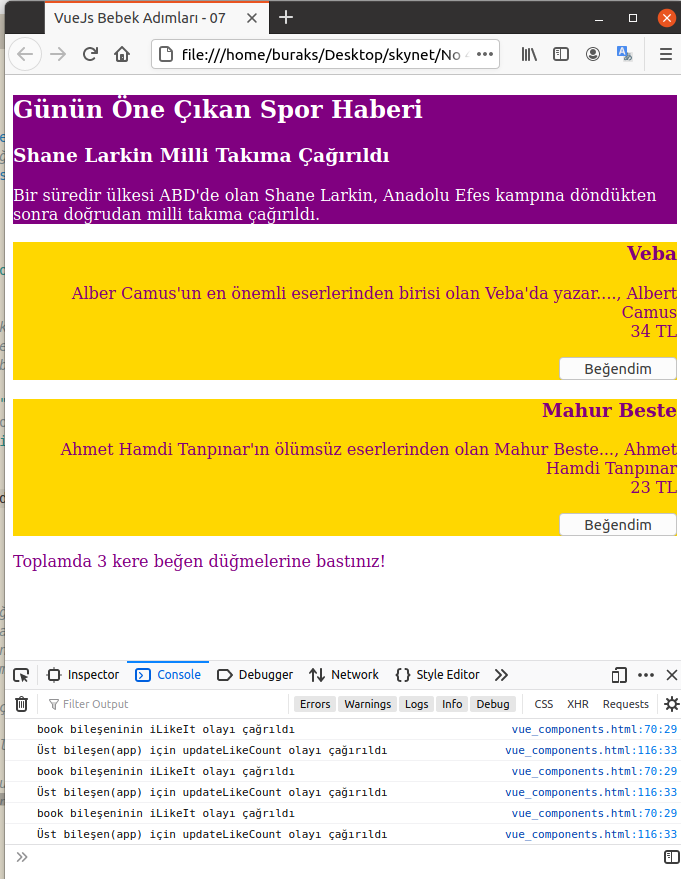
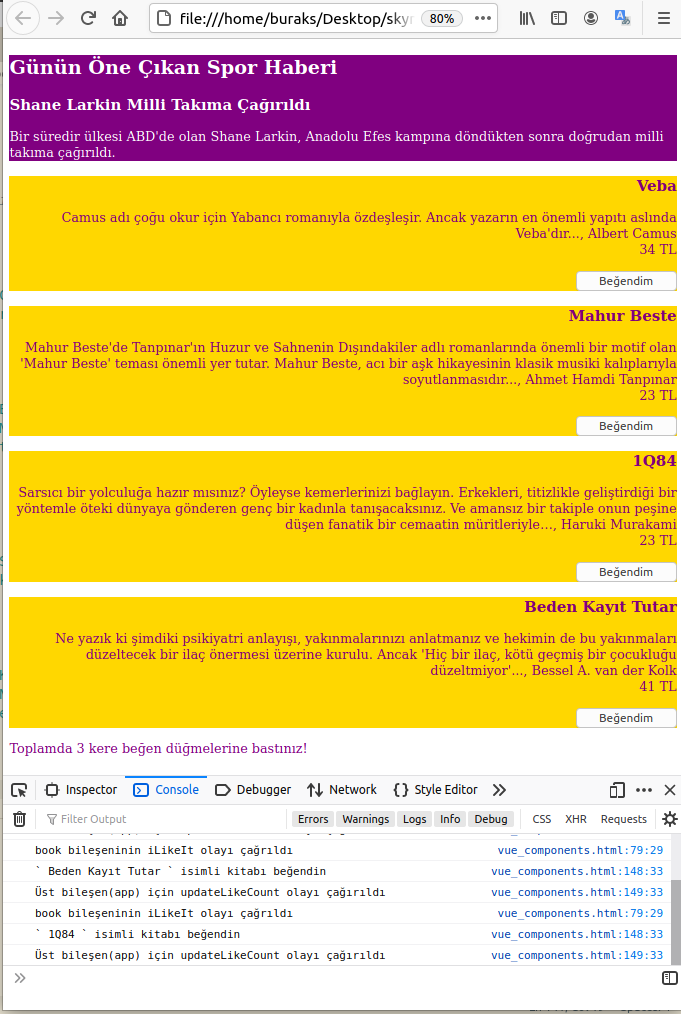
hangi kitabın beğenildiğini anlamaya çalıştım

diff --git a/No 41 - Vueeeee/src/vue_components.html b/No 41 - Vueeeee/src/vue_components.html
@@ -21,10 +21,12 @@
             Bunun için book bileşeninde düğmeye basıldığında, üst bileşene bunu bildirecek şekilde bir mesaj göndermek gerekir.
             Bu mesaj $emit fonksiyonu ile yollanabilir(book içerisindeki iLikeIt metoduna bakın)
             @i-like-it niteliğinde belirtilen updateLikeCount fonksiyonu ise alt bileşenlerden birisi i-like-it mesajını yukarı fırlattığında çağırılır.
+
+            Bu arada hangi book bileşenine basıldığını anlamak için (b,index) çiftindeki index değerini updateLikeCount metoduna parametre olarak verebiliriz.
         -->
-        <div v-for="b in books" :key="b.id">
+        <div v-for="(b,index) in books" :key="b.id">
             <book :book_title="b.title" :book_summary="b.description" :book_authors="b.authors"
-                :book_list_price="b.listPrice" @i-like-it="updateLikeCount">
+                :book_list_price="b.listPrice" @i-like-it="updateLikeCount(index)">
             </book>
         </div>
         <p style="color: purple;">Toplamda {{likeCount}} kere beğen düğmelerine bastınız!</p>
@@ -108,24 +110,42 @@
                     likeCount: 0, // Alt bileşenlerdeki düğmeye basıldığında bu değeri artırıyoruz
                     books: [
                         {
+                            id:1001,
                             title: "Veba",
-                            description: "Alber Camus'un en önemli eserlerinden birisi olan Veba'da yazar....",
+                            description: "Camus adı çoğu okur için Yabancı romanıyla özdeşleşir. Ancak yazarın en önemli yapıtı aslında Veba'dır...",
                             authors: "Albert Camus",
                             listPrice: 34
                         },
                         {
+                            id:1002,
                             title: "Mahur Beste",
-                            description: "Ahmet Hamdi Tanpınar'ın ölümsüz eserlerinden olan Mahur Beste...",
+                            description: "Mahur Beste'de Tanpınar'ın Huzur ve Sahnenin Dışındakiler adlı romanlarında önemli bir motif olan 'Mahur Beste' teması önemli yer tutar. Mahur Beste, acı bir aşk hikayesinin klasik musiki kalıplarıyla soyutlanmasıdır...",
                             authors: "Ahmet Hamdi Tanpınar",
                             listPrice: 23
                         },
+                        {
+                            id:1003,
+                            title: "1Q84",
+                            description: "Sarsıcı bir yolculuğa hazır mısınız? Öyleyse kemerlerinizi bağlayın. Erkekleri, titizlikle geliştirdiği bir yöntemle öteki dünyaya gönderen genç bir kadınla tanışacaksınız. Ve amansız bir takiple onun peşine düşen fanatik bir cemaatin müritleriyle…",
+                            authors: "Haruki Murakami",
+                            listPrice: 23
+                        },
+                        {
+                            id:1004,
+                            title: "Beden Kayıt Tutar",
+                            description: "Ne yazık ki şimdiki psikiyatri anlayışı, yakınmalarınızı anlatmanız ve hekimin de bu yakınmaları düzeltecek bir ilaç önermesi üzerine kurulu. Ancak 'Hiç bir ilaç, kötü geçmiş bir çocukluğu düzeltmiyor'...",
+                            authors: "Bessel A. van der Kolk",
+                            listPrice: 41,
+                        }
                     ]
                 },
                 methods: {
                     /*
                         Alt bileşenin emit ile gönderdiği mesaj sonrası tetiklenen metot
                     */
-                    updateLikeCount() {
+                    updateLikeCount(index) {
+                        selected_title = this.books[index].title;
+                        console.log("`", selected_title, "` isimli kitabı beğendin");
                         console.log('Üst bileşen(app) için updateLikeCount olayı çağırıldı');
                         this.likeCount += 1;
                     }
